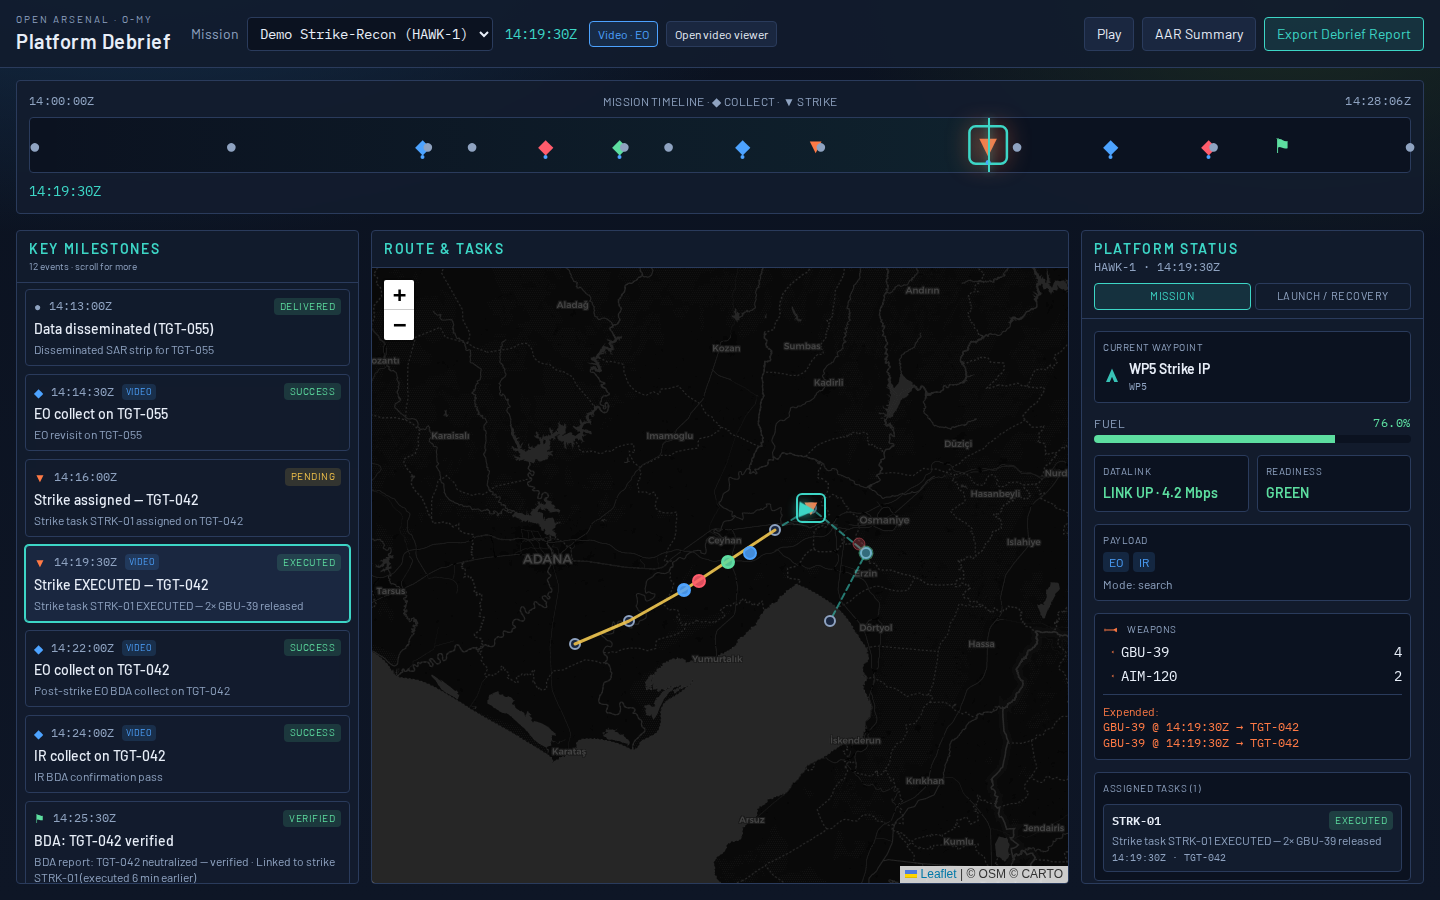
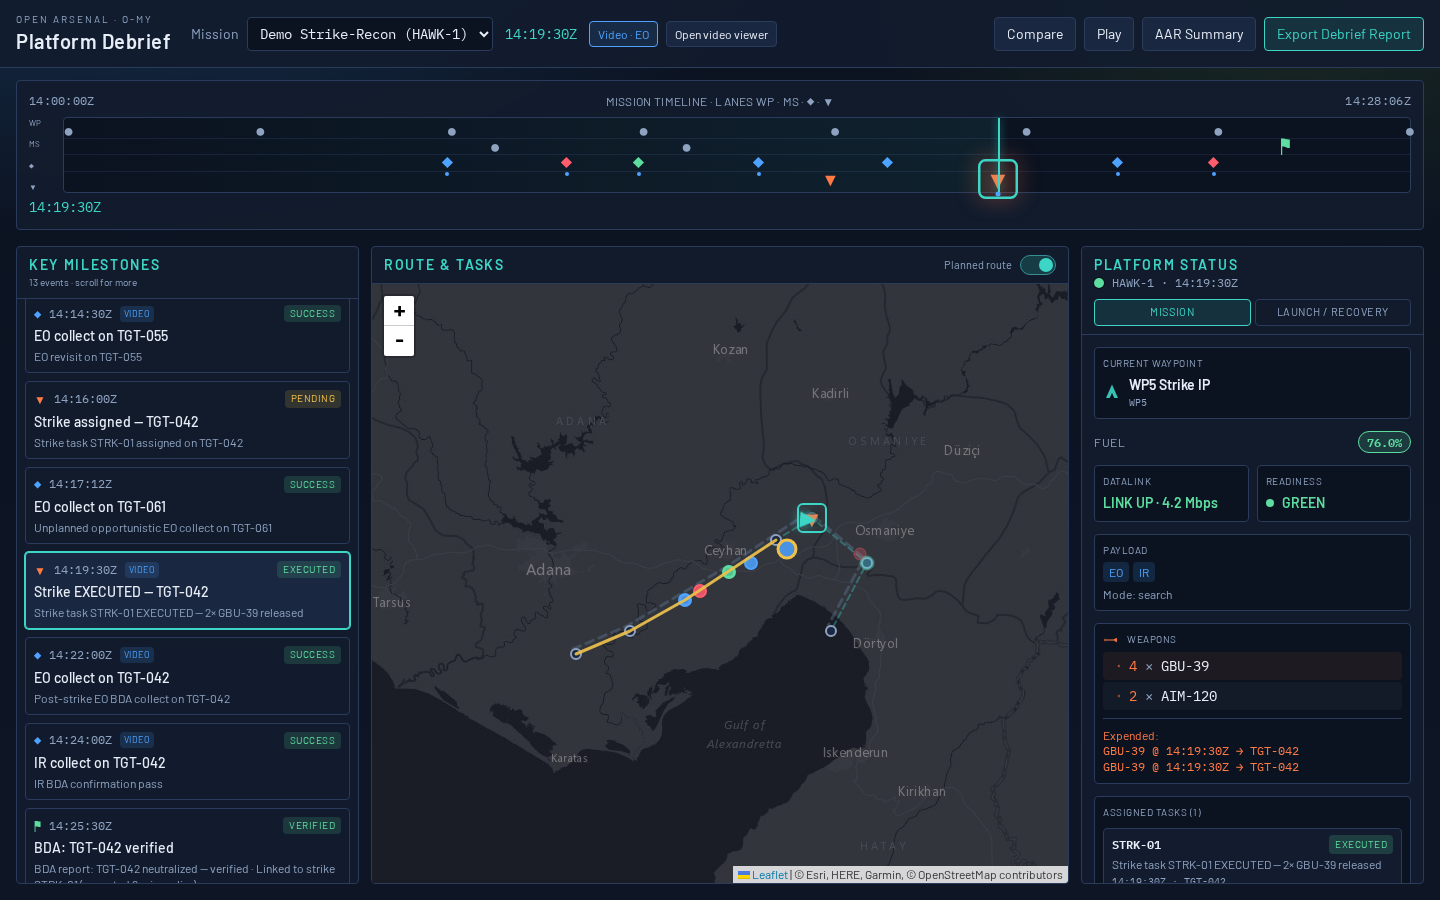
Document and lock the suite dark base map (Leaflet + key-free dark tiles) (#23)
* Document and lock the suite dark base map (Leaflet + key-free dark tiles)

- Extract SUITE_DARK_TILES / SUITE_DARK_LABELS into frontend/src/lib/basemap.js
  (dependency-free reference constants for the suite)
- Cap MissionMap at maxZoom 12 (map + tile layers) for regional demo scale
- Switch to Esri World Dark Gray Canvas (base + labels): CARTO now watermarks
  every un-keyed Dark Matter tile, so the key-free standard moves provider
- Import leaflet.css before app.css so the dark .leaflet-container background wins
- Add docs/SHARED-DARK-MAP.md as the copyable suite convention; link from README

Closes #22

* Refresh README screenshots on the suite dark base map

diff --git a/frontend/src/lib/basemap.js b/frontend/src/lib/basemap.js
@@ -1,0 +1,37 @@
+/**
+ * o-my suite shared dark base map (reference implementation).
+ *
+ * Every o-my display (o-my-debrief, o-my-mission-plan, battlespace-manager)
+ * draws its overlays on the same key-free dark raster tiles so the plan /
+ * battlespace / debrief consoles look alike in demos.
+ *
+ * Suite convention (see docs/SHARED-DARK-MAP.md):
+ *   - Tiles        Esri World Dark Gray Canvas: base + reference (labels)
+ *   - maxZoom      12  (regional demo scale; no street-level detail)
+ *   - opacity      0.65 base / 0.45 labels over a dark (#0b1220-ish) container
+ *   - attribution  "© Esri, HERE, Garmin, © OpenStreetMap contributors"
+ *   - no API key, no paid provider
+ *
+ * CartoDB Dark Matter was the original pick, but CARTO watermarks every
+ * un-keyed tile ("API KEY REQUIRED") since September 2026.
+ *
+ * Usage (Leaflet):
+ *   const map = L.map(el, { maxZoom: SUITE_DARK_TILES.maxZoom })
+ *   L.tileLayer(SUITE_DARK_TILES.url, SUITE_DARK_TILES).addTo(map)
+ *   L.tileLayer(SUITE_DARK_LABELS.url, SUITE_DARK_LABELS).addTo(map)
+ *
+ * Other repos copy these constants rather than importing them; keep the values
+ * in sync when changing them. Intentionally dependency-free.
+ */
+export const SUITE_DARK_TILES = Object.freeze({
+  url: 'https://server.arcgisonline.com/ArcGIS/rest/services/Canvas/World_Dark_Gray_Base/MapServer/tile/{z}/{y}/{x}',
+  attribution: '&copy; Esri, HERE, Garmin, &copy; OpenStreetMap contributors',
+  maxZoom: 12,
+  opacity: 0.65,
+})
+
+export const SUITE_DARK_LABELS = Object.freeze({
+  url: 'https://server.arcgisonline.com/ArcGIS/rest/services/Canvas/World_Dark_Gray_Reference/MapServer/tile/{z}/{y}/{x}',
+  maxZoom: SUITE_DARK_TILES.maxZoom,
+  opacity: 0.45,
+})

diff --git a/frontend/src/lib/MissionMap.svelte b/frontend/src/lib/MissionMap.svelte
@@ -2,6 +2,7 @@
   import { onMount } from 'svelte'
   import L from 'leaflet'
   import { sensorColor } from './api.js'
+  import { SUITE_DARK_LABELS, SUITE_DARK_TILES } from './basemap.js'
 
   let {
     waypoints = [],
@@ -28,15 +29,16 @@
   let unmatchedSet = $derived(new Set(unmatchedActual || []))
 
   onMount(() => {
+    // Suite-standard dark base map (key-free dark tiles, zoom capped for
+    // regional demo scale). See lib/basemap.js and docs/SHARED-DARK-MAP.md.
     map = L.map(mapEl, {
       zoomControl: true,
       attributionControl: true,
+      maxZoom: SUITE_DARK_TILES.maxZoom,
     }).setView([36.95, 35.85], 9)
 
-    L.tileLayer('https://{s}.basemaps.cartocdn.com/dark_all/{z}/{x}/{y}{r}.png', {
-      attribution: '&copy; OSM &copy; CARTO',
-      maxZoom: 18,
-    }).addTo(map)
+    L.tileLayer(SUITE_DARK_TILES.url, SUITE_DARK_TILES).addTo(map)
+    L.tileLayer(SUITE_DARK_LABELS.url, SUITE_DARK_LABELS).addTo(map)
 
     // Plan under actual: insert plan pane below overlay
     map.createPane('plannedRoute')

diff --git a/frontend/src/main.js b/frontend/src/main.js
@@ -1,6 +1,7 @@
 import { mount } from 'svelte'
-import './app.css'
+// Leaflet first so app.css overrides (dark .leaflet-container) win by source order.
 import 'leaflet/dist/leaflet.css'
+import './app.css'
 import App from './App.svelte'
 
 const app = mount(App, { target: document.getElementById('app') })

diff --git a/docs/SHARED-DARK-MAP.md b/docs/SHARED-DARK-MAP.md
@@ -1,0 +1,79 @@
+# Shared dark map base (o-my suite convention)
+
+All o-my displays draw their overlays on the same key-free dark base map so
+the plan, battlespace, and debrief consoles look and behave alike in demos.
+This repo (`frontend/src/lib/MissionMap.svelte` + `frontend/src/lib/basemap.js`)
+is the reference implementation; the sibling repos copy the same values.
+
+## The convention
+
+| Setting | Value |
+| --- | --- |
+| Library | Leaflet 1.9.x |
+| Tiles | Esri World Dark Gray Canvas — base layer + reference (labels) layer |
+| Base URL | `https://server.arcgisonline.com/ArcGIS/rest/services/Canvas/World_Dark_Gray_Base/MapServer/tile/{z}/{y}/{x}` |
+| Labels URL | `https://server.arcgisonline.com/ArcGIS/rest/services/Canvas/World_Dark_Gray_Reference/MapServer/tile/{z}/{y}/{x}` |
+| `maxZoom` | **12** — regional demo scale, no street-level detail |
+| Opacity | base `0.65`, labels `0.45`, over a dark container background (`#0b1220` / `#0e1626`) |
+| Attribution | `© Esri, HERE, Garmin, © OpenStreetMap contributors` |
+| API key | none; no paid provider (Mapbox, Google, Stadia, …) |
+
+Note the Esri tile scheme is `{z}/{y}/{x}` (row before column), there is no
+`{s}` subdomain and no `{r}` retina suffix.
+
+Copy-paste form (dependency-free; keep it that way so non-Leaflet code such as
+static tile snapshots can share it):
+
+```js
+export const SUITE_DARK_TILES = Object.freeze({
+  url: 'https://server.arcgisonline.com/ArcGIS/rest/services/Canvas/World_Dark_Gray_Base/MapServer/tile/{z}/{y}/{x}',
+  attribution: '&copy; Esri, HERE, Garmin, &copy; OpenStreetMap contributors',
+  maxZoom: 12,
+  opacity: 0.65,
+})
+export const SUITE_DARK_LABELS = Object.freeze({
+  url: 'https://server.arcgisonline.com/ArcGIS/rest/services/Canvas/World_Dark_Gray_Reference/MapServer/tile/{z}/{y}/{x}',
+  maxZoom: SUITE_DARK_TILES.maxZoom,
+  opacity: 0.45,
+})
+
+const map = L.map(el, { maxZoom: SUITE_DARK_TILES.maxZoom })
+L.tileLayer(SUITE_DARK_TILES.url, SUITE_DARK_TILES).addTo(map)
+L.tileLayer(SUITE_DARK_LABELS.url, SUITE_DARK_LABELS).addTo(map)
+```
+
+Set `maxZoom` on **both** the map and the tile layers: the layer cap keeps us
+from requesting tiles at street scale, and the map cap keeps `fitBounds` /
+scroll-zoom from zooming past the tiles. Give `.leaflet-container` a dark
+background; the tile opacity blends Esri's mid-gray canvas into it.
+
+Frozen (non-Leaflet) snapshots that paint tiles directly — for example
+battlespace-manager's `staticTiles.js` — must expand the same base URL
+template so a snapshot and the live map look identical.
+
+## Why not CartoDB Dark Matter?
+
+Dark Matter (`https://{s}.basemaps.cartocdn.com/dark_all/{z}/{x}/{y}{r}.png`)
+was the original suite pick and is the look we are matching. Since September
+2026 CARTO serves an "API KEY REQUIRED" watermark on every un-keyed tile
+(keys registered before 23 Sep 2026 keep working until 30 Nov 2026; new keys
+are free for non-commercial use but must be appended as `?key=…`). Keeping the
+suite key-free matters more than the specific provider, so the standard moved
+to Esri's dark gray canvas, which serves from any origin without a key. If the
+suite ever adopts a keyed provider, change the reference constant here first,
+inject the key from the environment (never commit it), and update the copies.
+
+## Where it lives
+
+| Repo | Map(s) |
+| --- | --- |
+| `o-my-debrief` (reference) | `frontend/src/lib/MissionMap.svelte`, constants in `frontend/src/lib/basemap.js` |
+| `o-my-mission-plan` | Plan tab + route-details maps, constants at the top of `src/omy_mission_plan/static/app.js` |
+| `battlespace-manager` | `services/battlespace-display`, `services/entity-display`, `services/rf-display` web UIs (`web/src/lib/basemap.js` each) and `staticTiles.js` |
+
+## Changing it
+
+If the suite moves to a different tile set or zoom cap, change the reference
+constants here first, then open matching issues in the sibling repos. There is
+intentionally no shared npm package yet; a documented pattern is enough at the
+current scale.

diff --git a/README.md b/README.md
@@ -162,7 +162,7 @@ flowchart LR
 | Recorder | Python — demo / JSONL / Redis → pyarrow Parquet |
 | Store | `omy_debrief.store` — time filters, milestone rules, state-at |
 | API | FastAPI + Pydantic, CORS, OpenAPI at `/docs` |
-| UI | Svelte 5 runes, Vite, Tailwind 4, Leaflet (CARTO dark tiles) |
+| UI | Svelte 5 runes, Vite, Tailwind 4, Leaflet (key-free dark tiles — suite standard, see [`docs/SHARED-DARK-MAP.md`](docs/SHARED-DARK-MAP.md)) |
 | Tracking | Beads (`bd`, prefix `omd`) + OpenSpec + Gherkin |
 
 ### Development sequence (OpenSpec)
@@ -220,6 +220,7 @@ frontend/                 Svelte 5 debrief station
 tests/test_api.py         API smoke tests
 docs/screenshots/         UI captures
 docs/GROK-TASKS.md        Tasks suited for Grok
+docs/SHARED-DARK-MAP.md   Suite dark base-map convention (tiles, zoom cap)
 data/debrief/             Generated parquet (make fixtures)
 .beads/                   Issue DB (bd)
 ```
